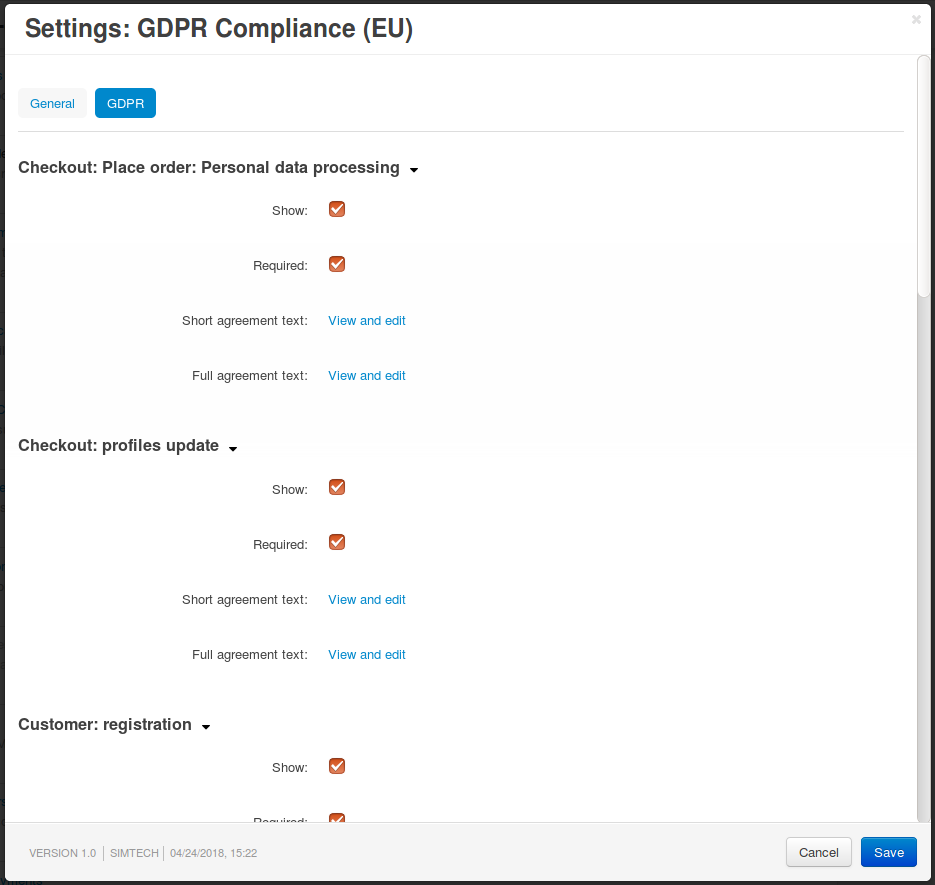
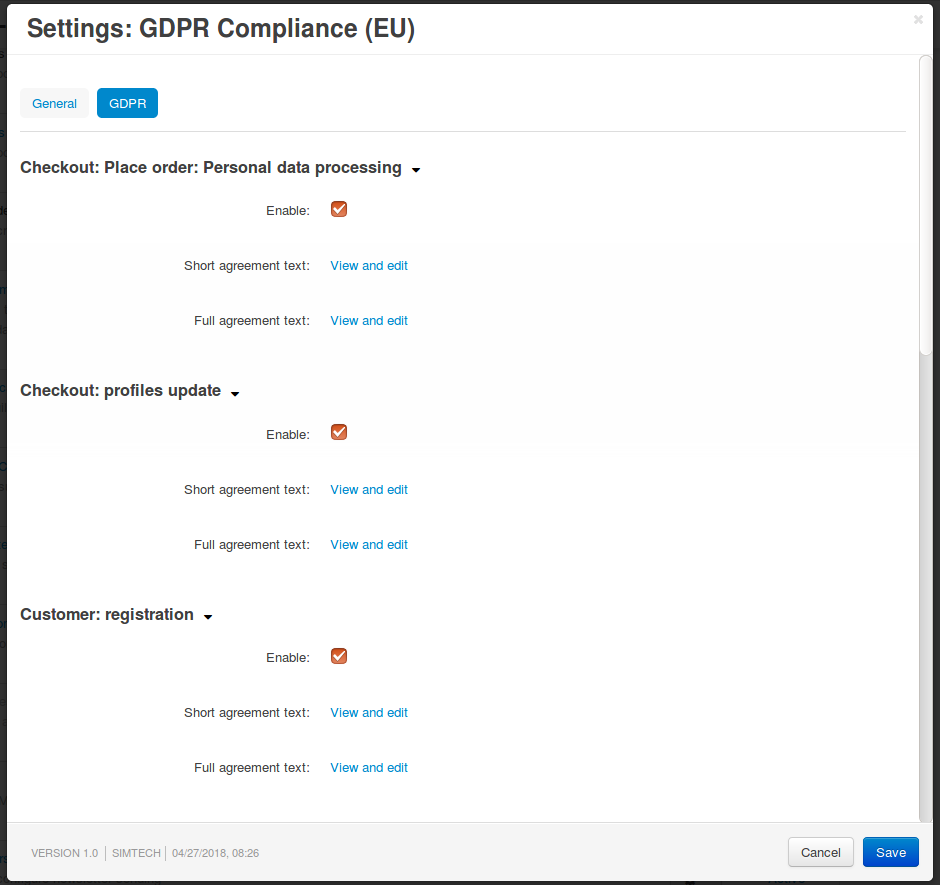
En: User Guide: Add-ons: GDPR: Articles updated.

diff --git a/en/user_guide/addons/gdpr/compliance.rst b/en/user_guide/addons/gdpr/compliance.rst
@@ -38,17 +38,11 @@ Step 1. Install and Configure the Add-on
 
 #. Click **Save**.
 
-
-
 ============================================
 Step 2. Check and Update the Privacy Notices
 ============================================
 
-The add-on's settings have the **GDPR** tab. It contains the list of places where checkboxes for requesting consent will be displayed. 
-
-* **Show** means that the checkbox for requesting consent will appear in the specified place.
-
-* **Required** means that customers won't be able to proceed with the action (such as registering an account, etc.) without ticking the checkbox.
+The add-on's settings have the **GDPR** tab. It contains the list of places where checkboxes for requesting consent will be displayed. For each place, you can choose whether or not you want a checkbox for requesting consent to appear.
 
 .. image:: img/gdpr-checkboxes.png
     :align: center
